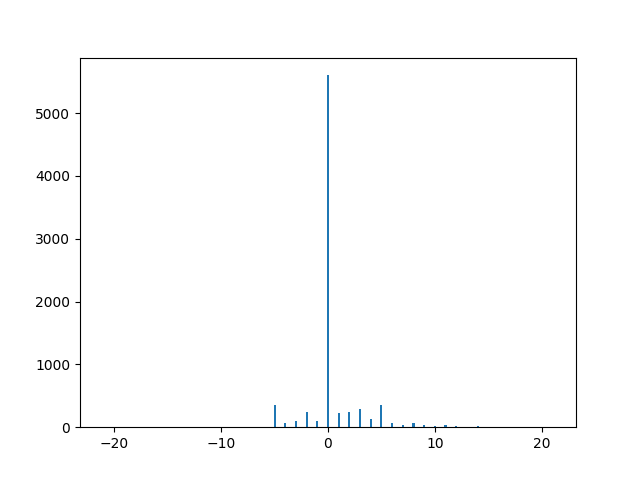
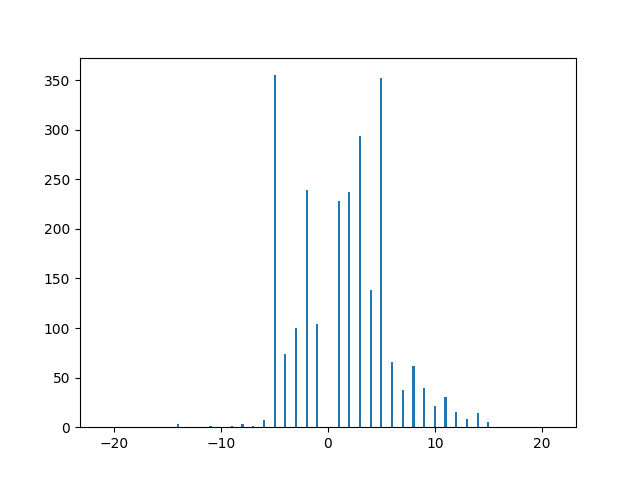
asdf

diff --git a/car-recognition-aws/predict.py b/car-recognition-aws/predict.py
@@ -98,7 +98,7 @@ def main(args):
     countsDict = {0: 5605, 1: 228, 2: 237, 3: 294, 4: 138, 5: 352, 6: 66, 7: 38, 8: 62, 9: 40, 10: 21, 11: 30, 12: 15, 13: 8, 14: 14, 15: 5, -14: 3, -11: 1, -1: 104, -9: 1, -8: 3, -7: 1, -6: 7, -5: 355, -4: 74, -3: 100, -2: 239} 
     heightsArr = np.zeros(43)
     for i in range(0, 43):
-        if (i-21) in countsDict:
+        if (i-21) in countsDict and i != 21:
             #heightsArr[i + 21] = countsDict[i]
             heightsArr[i] = countsDict[i-21]
     print(heightsArr)
